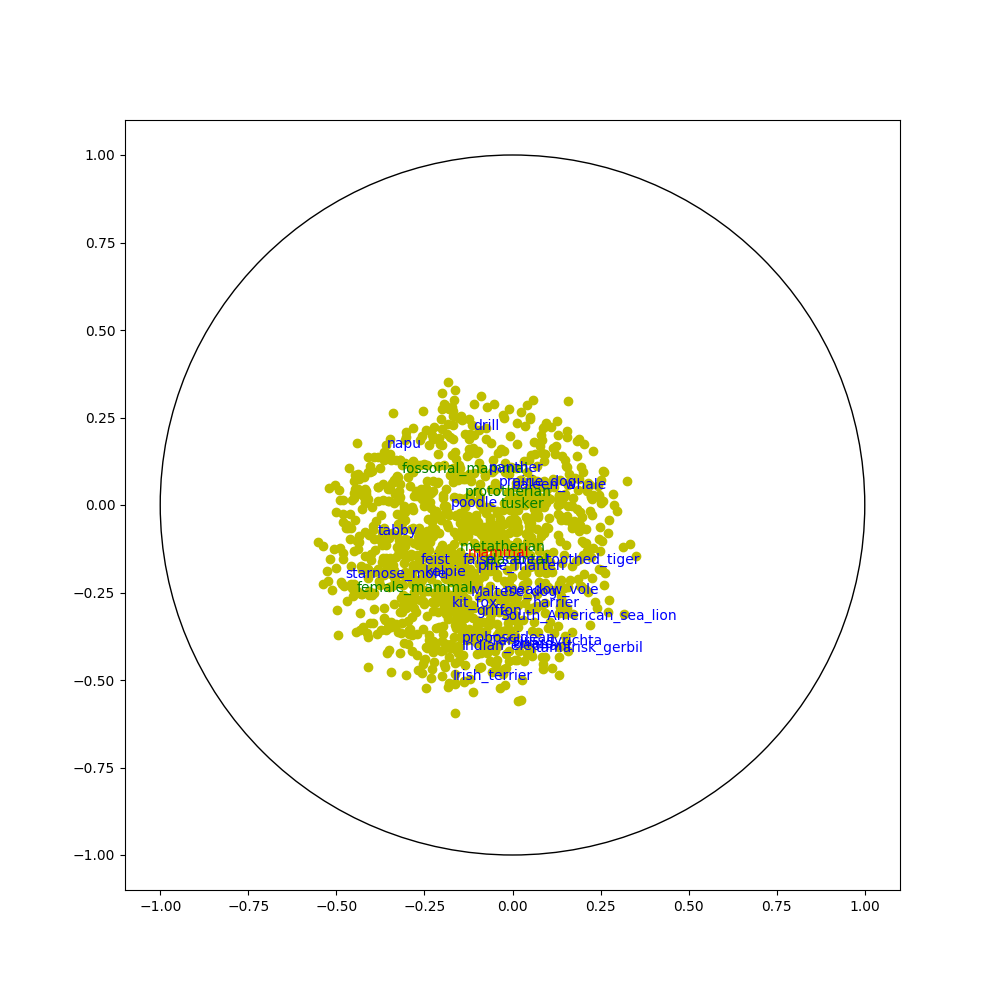
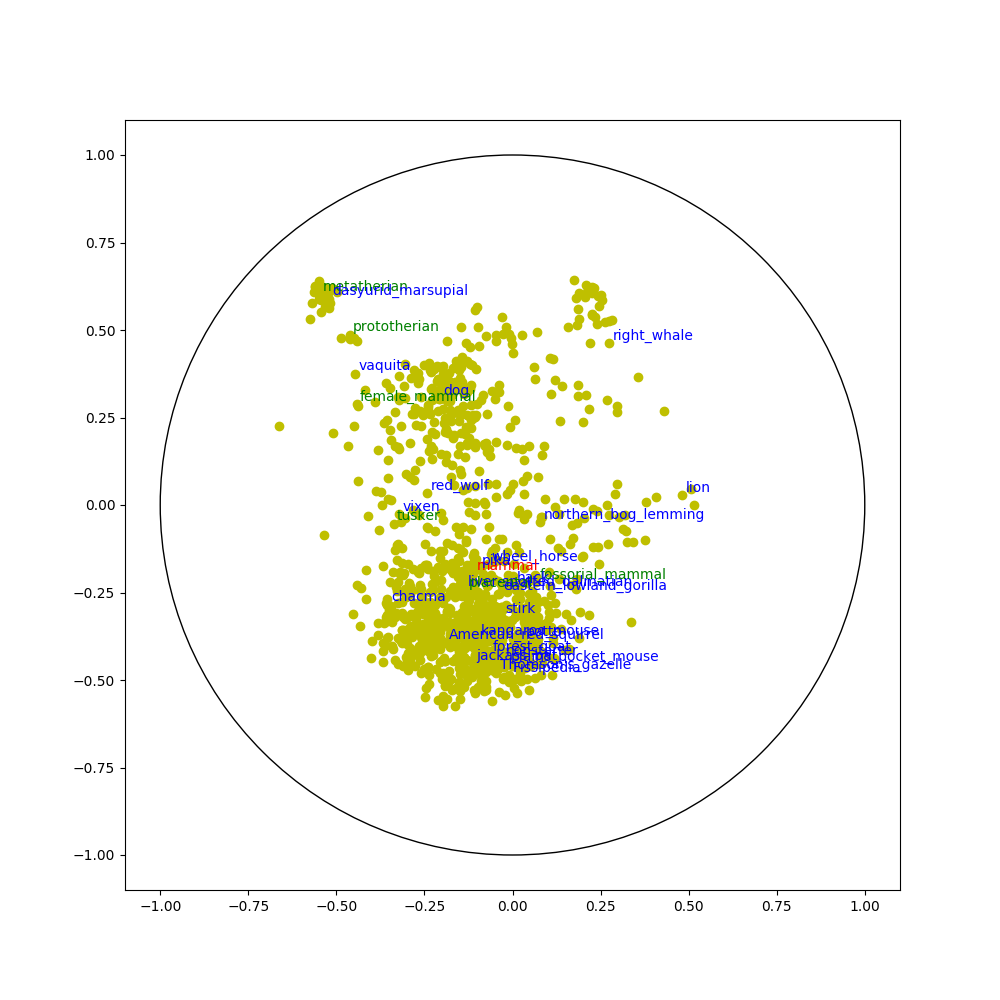
Exclude self

Changed region(s): [[0.31, 0.279, 0.713, 0.713]]

diff --git a/Poincare_disk.py b/Poincare_disk.py
@@ -140,7 +140,7 @@ for epoch in range(EPOCHS):
         NEG_SAMPLES=[]
         while len(NEG_SAMPLES)<NEG:
             pickme=np.random.randint(0, len(uniq_hypernyms))
-            if not are_you_hyper(uniq_hypernyms[pickme], uniq_hypernyms[i_w1]):
+            if (not are_you_hyper(uniq_hypernyms[pickme], uniq_hypernyms[i_w1])) and i_w1==pickme :
                 NEG_SAMPLES.append(pickme)
         NEG_SAMPLES = torch.from_numpy(np.array(NEG_SAMPLES)).cuda()
         negs = Variable(EMBEDDINGS[NEG_SAMPLES], requires_grad=True)
